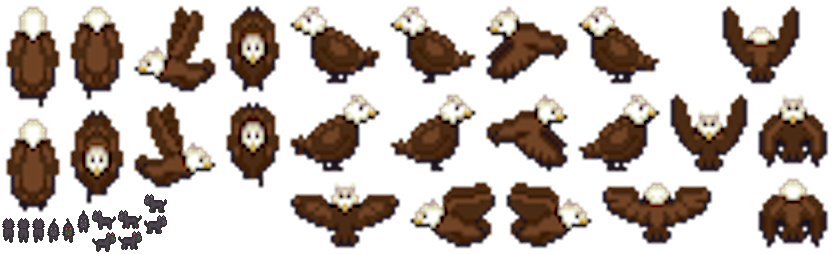
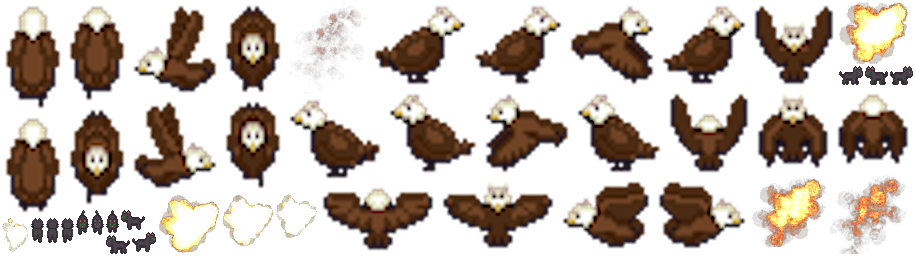
exploding cats

diff --git a/index.js b/index.js
@@ -7,6 +7,8 @@
     var mid
     var fore
     var app
+    var sprites = []
+    const bottom = 350
 
     function Eagle (app) {
         this.anim = null
@@ -14,8 +16,11 @@
         this.stepDistance = 10
         this.direction = {up:false, down:false,left:false,right:false}
         this.items = {}
+        this.container = new PIXI.Container()
         this.createAnimatedSprite(app)
         this.bindKeyboardControls()
+        
+        return this
     }
     Eagle.prototype.uuidv4 = function() {
         return ([1e7]+-1e3+-4e3+-8e3+-1e11).replace(/[018]/g, c =>
@@ -26,6 +31,8 @@
         if (!this.items[item.name]) {
             item.name = this.uuidv4()
             this.items[item.name] = item
+            this.container.addChild(item)
+            console.log(this.container.children)
         }
     }
     Eagle.prototype.bindKeyboardControls = function() {
@@ -45,6 +52,16 @@
         arrowRight.press = () => this.direction.right = true
         arrowRight.release = () => this.direction.right = false            
 
+        let spaceBar = keyboard(" ")
+        spaceBar.press = () => {
+            let offset = 2
+            this.container.children.forEach((val, i, arr) => {
+                offset += 10
+                sprites.push(new FallingCat(this.anim.position.x+offset, this.anim.position.y))
+            })
+            this.container.removeChildren()
+        }
+        spaceBar.release = () => {}
     }
     Eagle.prototype.createAnimatedSprite = function(app) {
         var frames = []
@@ -57,7 +74,9 @@
         this.anim.anchor.set(0.5)
         this.anim.animationSpeed = 0.25
         this.anim.play()
-        app.stage.addChild(this.anim)
+
+        return this
+        // app.stage.addChild(this.anim)
     }
     Eagle.prototype.update = function() {
         if (this.direction.up) {
@@ -110,7 +129,9 @@
         this.anim.anchor.set(0.5)
         this.anim.animationSpeed = 0.25
         this.anim.play()
-        app.stage.addChild(this.anim)
+
+        return this
+        // app.stage.addChild(this.anim)
     }
     Cat.prototype.update = function() {
         if (this.anim.position.x-5 <= 0) {
@@ -120,6 +141,70 @@
             this.anim.position.x -= 5
         }
     }
+
+    function FallingCat(x, y) {
+        this.removed = false
+        this.anim = null
+        this.createAnimatedSprite(x, y)
+    }
+    FallingCat.prototype.createAnimatedSprite = function(x, y) {
+        var frames = []
+        for (var i = 1; i < 4; i++)
+            frames.push(PIXI.Texture.fromFrame('catfwd_0' + i + '.png'))
+
+        this.anim = new PIXI.extras.AnimatedSprite(frames)
+        this.anim.x = x
+        this.anim.y = y
+        this.anim.anchor.set(0.5)
+        this.anim.animationSpeed = 0.25
+        this.anim.play()
+
+        this.add()
+    }
+    FallingCat.prototype.add = function() {
+        app.stage.addChild(this.anim)        
+    }
+    FallingCat.prototype.remove = function() {
+        this.removed = true
+        app.stage.removeChild(this.anim)
+    }
+    FallingCat.prototype.update = function() {
+        if (this.anim.position.y+5 < bottom) {
+            this.anim.position.y += 5
+        } else if (!this.removed) {
+            new Explosion(this.anim.position.x, this.anim.position.y)
+            this.remove()
+        }
+    }
+
+    function Explosion(x, y) {
+        this.anim = null
+        this.timeout = null
+        this.destroyAfter = 200
+        this.createAnimatedSprite(x, y)
+    }
+    Explosion.prototype.createAnimatedSprite = function(x, y) {
+        var frames = []
+        for (var i = 1; i < 9; i++) {
+            frames.push(PIXI.Texture.fromFrame('tile00' + i + '.png'))
+        }
+        this.anim = new PIXI.extras.AnimatedSprite(frames)
+        this.anim.x = x
+        this.anim.y = bottom-32
+        this.anim.anchor.set(0.5)
+        this.anim.animationSpeed = 0.5
+        this.anim.play()
+        this.add()
+    }
+    Explosion.prototype.add = function() {
+        app.stage.addChild(this.anim)
+        this.timeout = setTimeout(() => {this.remove()}, this.destroyAfter)
+    }
+    Explosion.prototype.remove = function() {
+        app.stage.removeChild(this.anim)
+        clearTimeout(this.timeout)
+    }
+    Explosion.prototype.update = function() {}
 
     // Setup Pixi and load the texture atlas files - call the `setup` function when they've loaded
     PIXI.loader.add("resources/eagledata.json")
@@ -176,9 +261,18 @@
         app.stage.addChild(fore)
 
         eagle = new Eagle(app)
-        cats = [new Cat(app)]
+        app.stage.addChild(eagle.anim)
+        app.stage.addChild(eagle.container)
 
-        setInterval(() => cats.push(new Cat(app)), 1500)
+        let cat = new Cat(app)
+        cats = [cat]
+        app.stage.addChild(cat.anim)
+
+        setInterval(() => { 
+            let c = new Cat(app)
+            cats.push(c)
+            app.stage.addChild(c.anim)
+        }, 1500)
 
         gameState = play
 
@@ -205,10 +299,14 @@
                     // return
                 // }
                 cats.splice(cats.indexOf(c), 1)
-                // c.direction = eagle.direction
                 eagle.addItem(c.anim)
             }
         })
+
+        sprites.forEach(c => {
+            c.update()
+        })
+
         // parallax scrollng layers
         far.tilePosition.x -= 0.128
         mid.tilePosition.x -= 0.64
